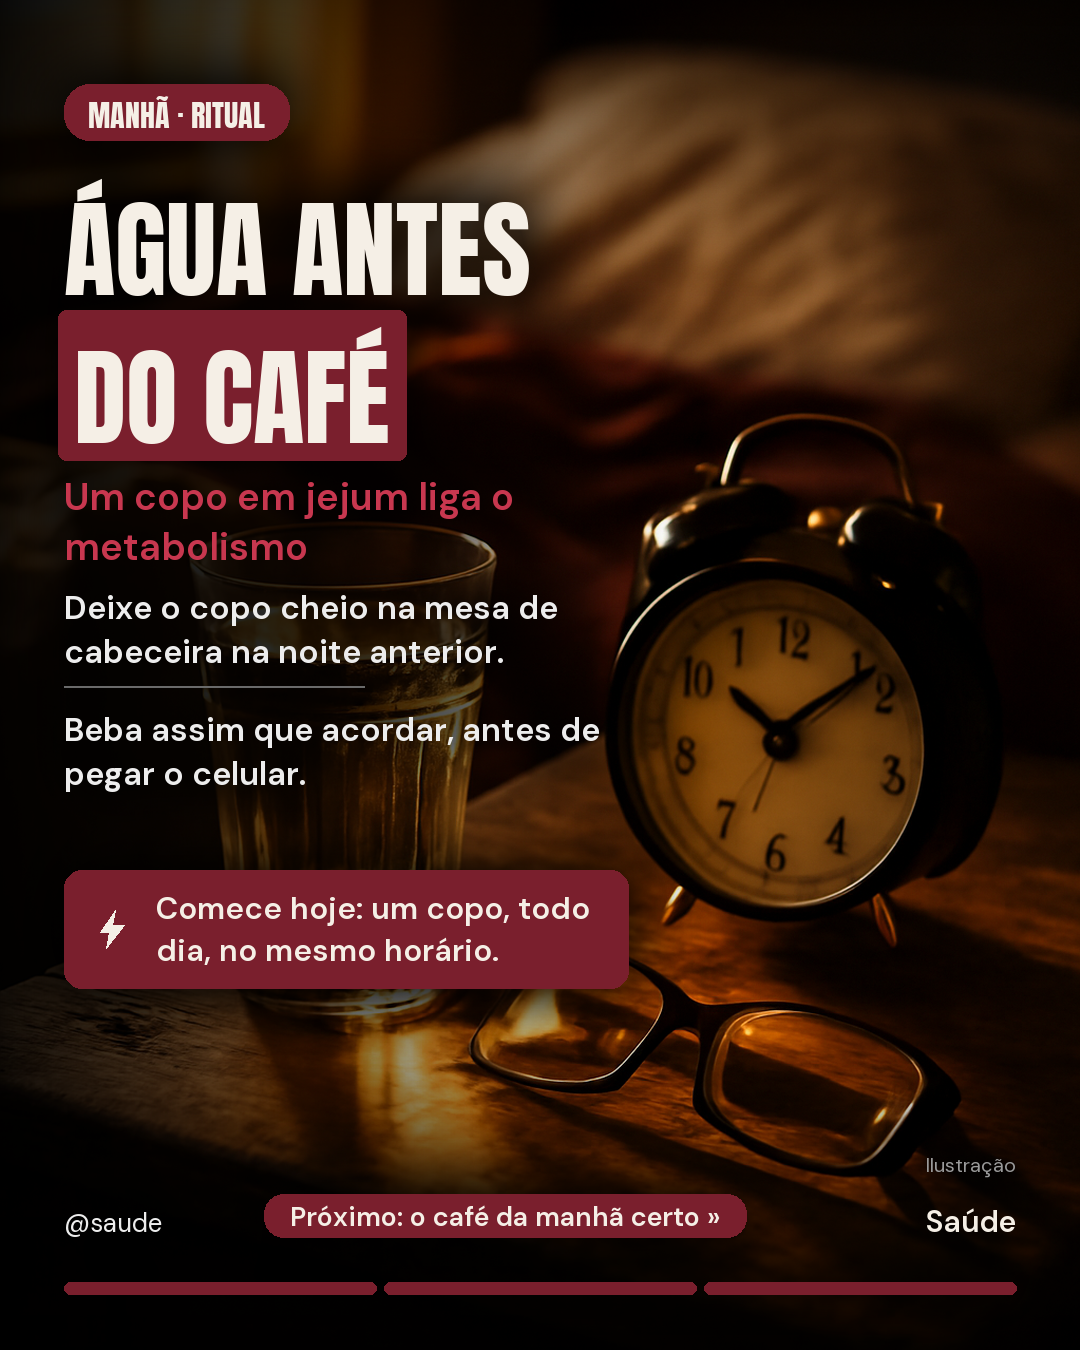
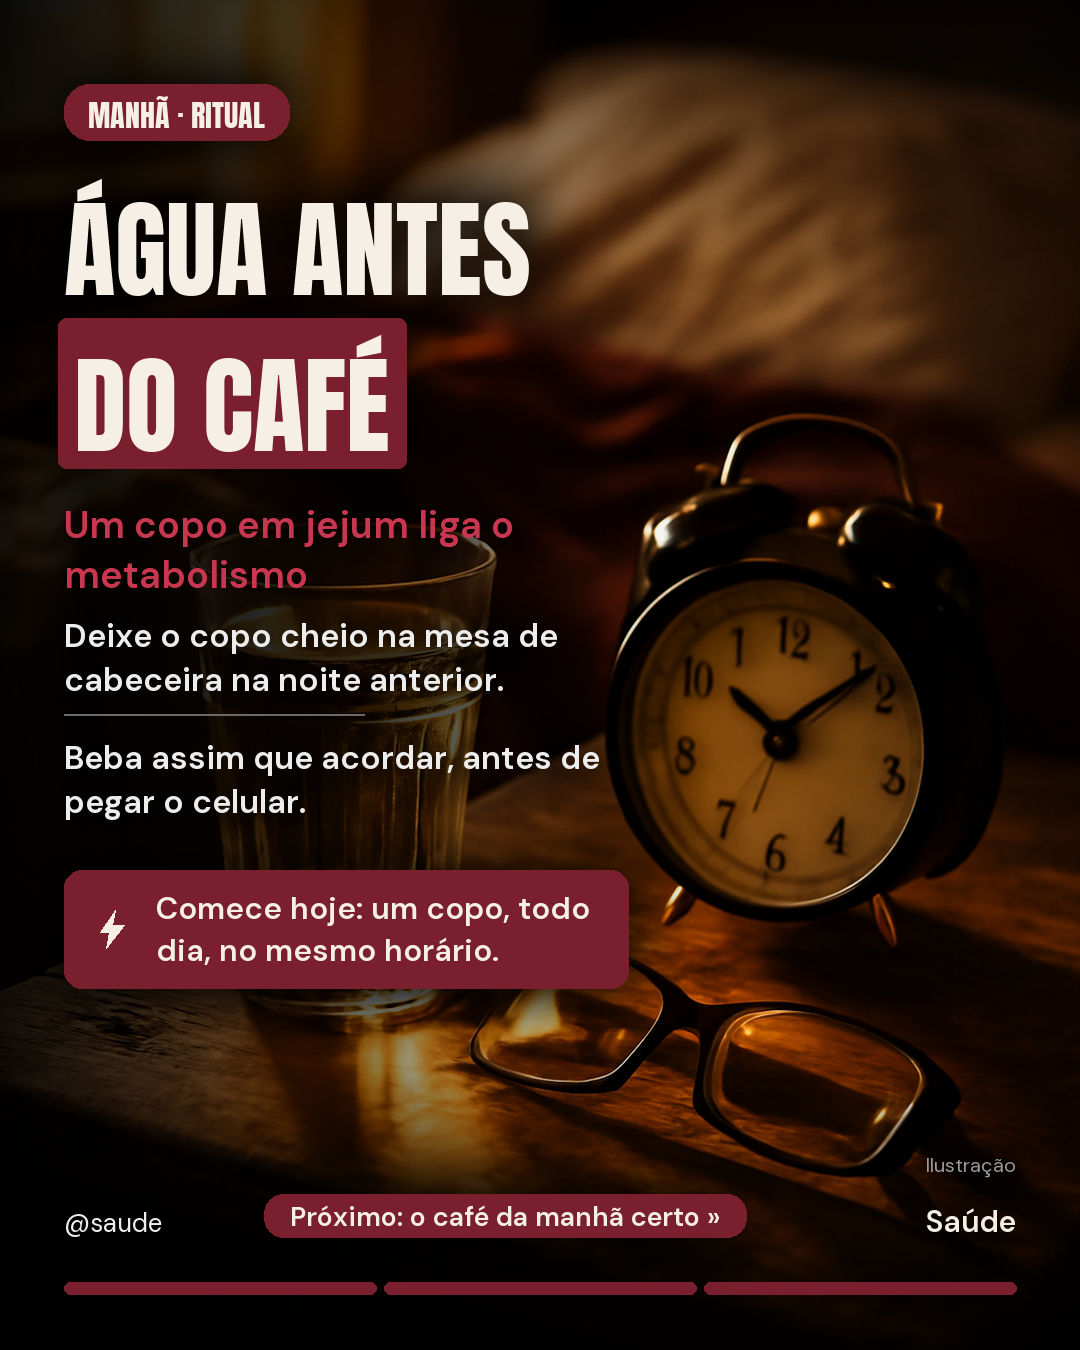
Espacamento apos o balao de destaque parte da base real do balao
A correcao anterior centralizou o balao mas o avanco de linha continuava
vindo da metrica do texto, entao o elemento seguinte encostava ou invadia
o balao. Agora o proximo elemento parte da base do balao (+26px) e ha um
respiro extra de 8px antes dele.

Changed region(s): [[0.0611, 0.2178, 0.55, 0.6222]]

diff --git a/.claude/skills/carrossel-instagram/scripts/montar_slide.py b/.claude/skills/carrossel-instagram/scripts/montar_slide.py
@@ -378,14 +378,17 @@ def montar_m2(spec, pal, meta, dir_base, idx, total):
         if linha.get("destaque"):
             # balao centralizado na caixa de tinta REAL das letras, com folga igual
             # em todos os lados (nao invade a linha de cima nem corta a de baixo)
+            y += 8  # respiro extra entre a linha anterior e o balao
             l, t, r, b = d.textbbox((X + 10, y), txt, font=f)
             pad = 16
             d.rounded_rectangle([l - pad, t - pad, r + pad, b + pad],
                                 radius=8, fill=pal["destaque"])
             d.text((X + 10, y), txt, font=f, fill=cor_pill_txt)
+            # o proximo elemento parte da BASE do balao, nao da linha de texto
+            y = b + pad + 26
         else:
             d.text((X, y), txt, font=f, fill=pal["titulo"])
-        y += at + 30
+            y += at + 30
     y += 6
 
     if spec.get("url"):
